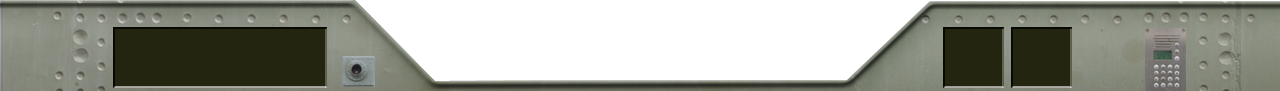
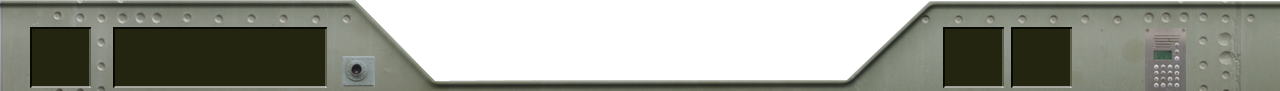
show current weapon and ammo

Changed region(s): [[0.0, 0.2857, 0.0938, 0.967]]

diff --git a/JGerdesJWiemers/JGerdesJWiemers/Game/ShootEmUp/Screens/UiScreen.cs b/JGerdesJWiemers/JGerdesJWiemers/Game/ShootEmUp/Screens/UiScreen.cs
@@ -31,6 +31,9 @@ namespace JGerdesJWiemers.Game.ShootEmUp.Screens
         private Text _astronauts;
         private Text _earthHealth;
         private Text _shipHealth;
+        private Text _bulletAmount;
+        private Text _rocketAmount;
+        private List<AnimatedSprite> _weapons;
 
         public UiScreen(RenderWindow w)
             :base(w)
@@ -101,6 +104,47 @@ namespace JGerdesJWiemers.Game.ShootEmUp.Screens
             _shipHealth.Position = _bg.Position + new Vector2f(1068, -29);
             _texts.Add(_shipHealth);
 
+            _bulletAmount = new Text(scoreText);
+            _bulletAmount.CharacterSize = 18;
+            _bulletAmount.Position = _bg.Position + new Vector2f(70, -57);
+            _texts.Add(_bulletAmount);
+
+            Text bulletX = new Text(_bulletAmount);
+            bulletX.DisplayedString = "x";
+            bulletX.CharacterSize = 10;
+            bulletX.Position = _bg.Position + new Vector2f(63, -50);
+            _texts.Add(bulletX);
+
+            _rocketAmount = new Text(_bulletAmount);
+            _rocketAmount.Position = _bg.Position + new Vector2f(70, -30);
+            _texts.Add(_rocketAmount);
+
+            Text rocketX = new Text(bulletX);
+            rocketX.Position = _bg.Position + new Vector2f(63, -23);
+            _texts.Add(rocketX);
+
+            _weapons = new List<AnimatedSprite>();
+
+            _weapons.Add(new AnimatedSprite(AssetLoader.Instance.getTexture(AssetLoader.TEXTURE_UI_SINGLE)));
+            _weapons.Add(new AnimatedSprite(AssetLoader.Instance.getTexture(AssetLoader.TEXTURE_UI_DOUBLE)));
+            _weapons.Add(new AnimatedSprite(AssetLoader.Instance.getTexture(AssetLoader.TEXTURE_UI_MISSILE)));
+
+            _weapons[0].Position = _bg.Position + new Vector2f(40, -55);
+            _weapons[1].Position = _bg.Position + new Vector2f(40, -39);
+            _weapons[2].Position = _bg.Position + new Vector2f(40, -18);
+
+            foreach (AnimatedSprite s in _weapons)
+            {
+                s.CenterOrigin();
+                s.Color = new Color(0, 255, 0, 200);
+                s.Scale *= 0.5f;
+            }
+
+
+
+            UpdateBulletAmount(0);
+            UpdateRocketAmount(0);
+            SetCurrentWeapon(0);
 
             UpdateShipHealth(100);
             UpdateEarthHealth(100);
@@ -147,6 +191,7 @@ namespace JGerdesJWiemers.Game.ShootEmUp.Screens
             _score.DisplayedString = "" + score;
             FloatRect bounds = _score.GetLocalBounds();
             _score.Origin = new Vector2f(bounds.Width, 0);
+            
         }
 
         public void UpdateAstronauts(int astronauts)
@@ -179,9 +224,41 @@ namespace JGerdesJWiemers.Game.ShootEmUp.Screens
             _shipHealth.Origin = new Vector2f(bounds.Width, 0);
         }
 
+        public void UpdateBulletAmount(int amount)
+        {
+            _bulletAmount.DisplayedString = "" + amount;
+        }
+
+        public void UpdateRocketAmount(int amount)
+        {
+            _rocketAmount.DisplayedString = "" + amount;
+        }
+
+        public void SetCurrentWeapon(int index)
+        {
+            for (int i = 0, c = _weapons.Count; i < c; ++i)
+            {
+                AnimatedSprite current = _weapons[i];
+                if (i == index){
+                   current.SetAnimation(new Animation(0,current.GetFrameCount() - 1, 200, true, false));
+                   current.Color = new Color(255, 255, 255, 200);
+                }
+                else
+                {
+                    current.SetAnimation(new Animation());
+                    current.Color = new Color(0, 255, 0, 200);
+                }
+                    
+            }
+        }
+
         public override void Update()
         {
             _earth.Update();
+            foreach (AnimatedSprite s in _weapons)
+            {
+                s.Update();
+            }
             
         }
 
@@ -199,6 +276,10 @@ namespace JGerdesJWiemers.Game.ShootEmUp.Screens
             foreach (Text t in _texts)
             {
                 renderTarget.Draw(t);
+            }
+            foreach (AnimatedSprite s in _weapons)
+            {
+                renderTarget.Draw(s);
             }
         }
 

diff --git a/JGerdesJWiemers/JGerdesJWiemers/Game/Engine/Utils/AssetLoader.cs b/JGerdesJWiemers/JGerdesJWiemers/Game/Engine/Utils/AssetLoader.cs
@@ -26,6 +26,9 @@ namespace JGerdesJWiemers.Game.Engine.Utils
         public static readonly String TEXTURE_UI = "UI";
         public static readonly String TEXTURE_UI_EARTH = "ui_earth";
         public static readonly String TEXTURE_UI_SHUTTLE = "ui_spaceshuttle";
+        public static readonly String TEXTURE_UI_SINGLE = @"ui\single";
+        public static readonly String TEXTURE_UI_DOUBLE = @"ui\double";
+        public static readonly String TEXTURE_UI_MISSILE = @"ui\missile";
 
         public static readonly String TEXTURE_ASTRONAUT = "astronaut";
         public static readonly String TEXTURE_EARTH = "earth";
@@ -71,6 +74,9 @@ namespace JGerdesJWiemers.Game.Engine.Utils
             LoadTexture(TEXTURE_UI, TEXTURE_UI);
             LoadTexture(TEXTURE_UI_EARTH, TEXTURE_UI_EARTH);
             LoadTexture(TEXTURE_UI_SHUTTLE, TEXTURE_UI_SHUTTLE);
+            LoadTexture(TEXTURE_UI_SINGLE, TEXTURE_UI_SINGLE);
+            LoadTexture(TEXTURE_UI_DOUBLE, TEXTURE_UI_DOUBLE);
+            LoadTexture(TEXTURE_UI_MISSILE, TEXTURE_UI_MISSILE);
 
             LoadTexture(TEXTURE_ASTRONAUT, TEXTURE_ASTRONAUT);
             LoadTexture(TEXTURE_EARTH, TEXTURE_EARTH);

diff --git a/JGerdesJWiemers/JGerdesJWiemers/Game/Engine/Graphics/AnimatedSprite.cs b/JGerdesJWiemers/JGerdesJWiemers/Game/Engine/Graphics/AnimatedSprite.cs
@@ -43,6 +43,13 @@ namespace JGerdesJWiemers.Game.Engine.Graphics
         public AnimatedSprite(Texture tex, int tileWidth, int tileHeight)
             : this(tex, tileWidth, tileHeight, new Animation()) { }
 
+        public AnimatedSprite(TextureContainer cont)
+            : this(cont.Texture, cont.Width, cont.Height) { }
+
+        public void CenterOrigin()
+        {
+            Origin = new SFML.System.Vector2f(_tileWidth / 2f, _tileHeight / 2f);
+        }
 
         public void Update()
         {
